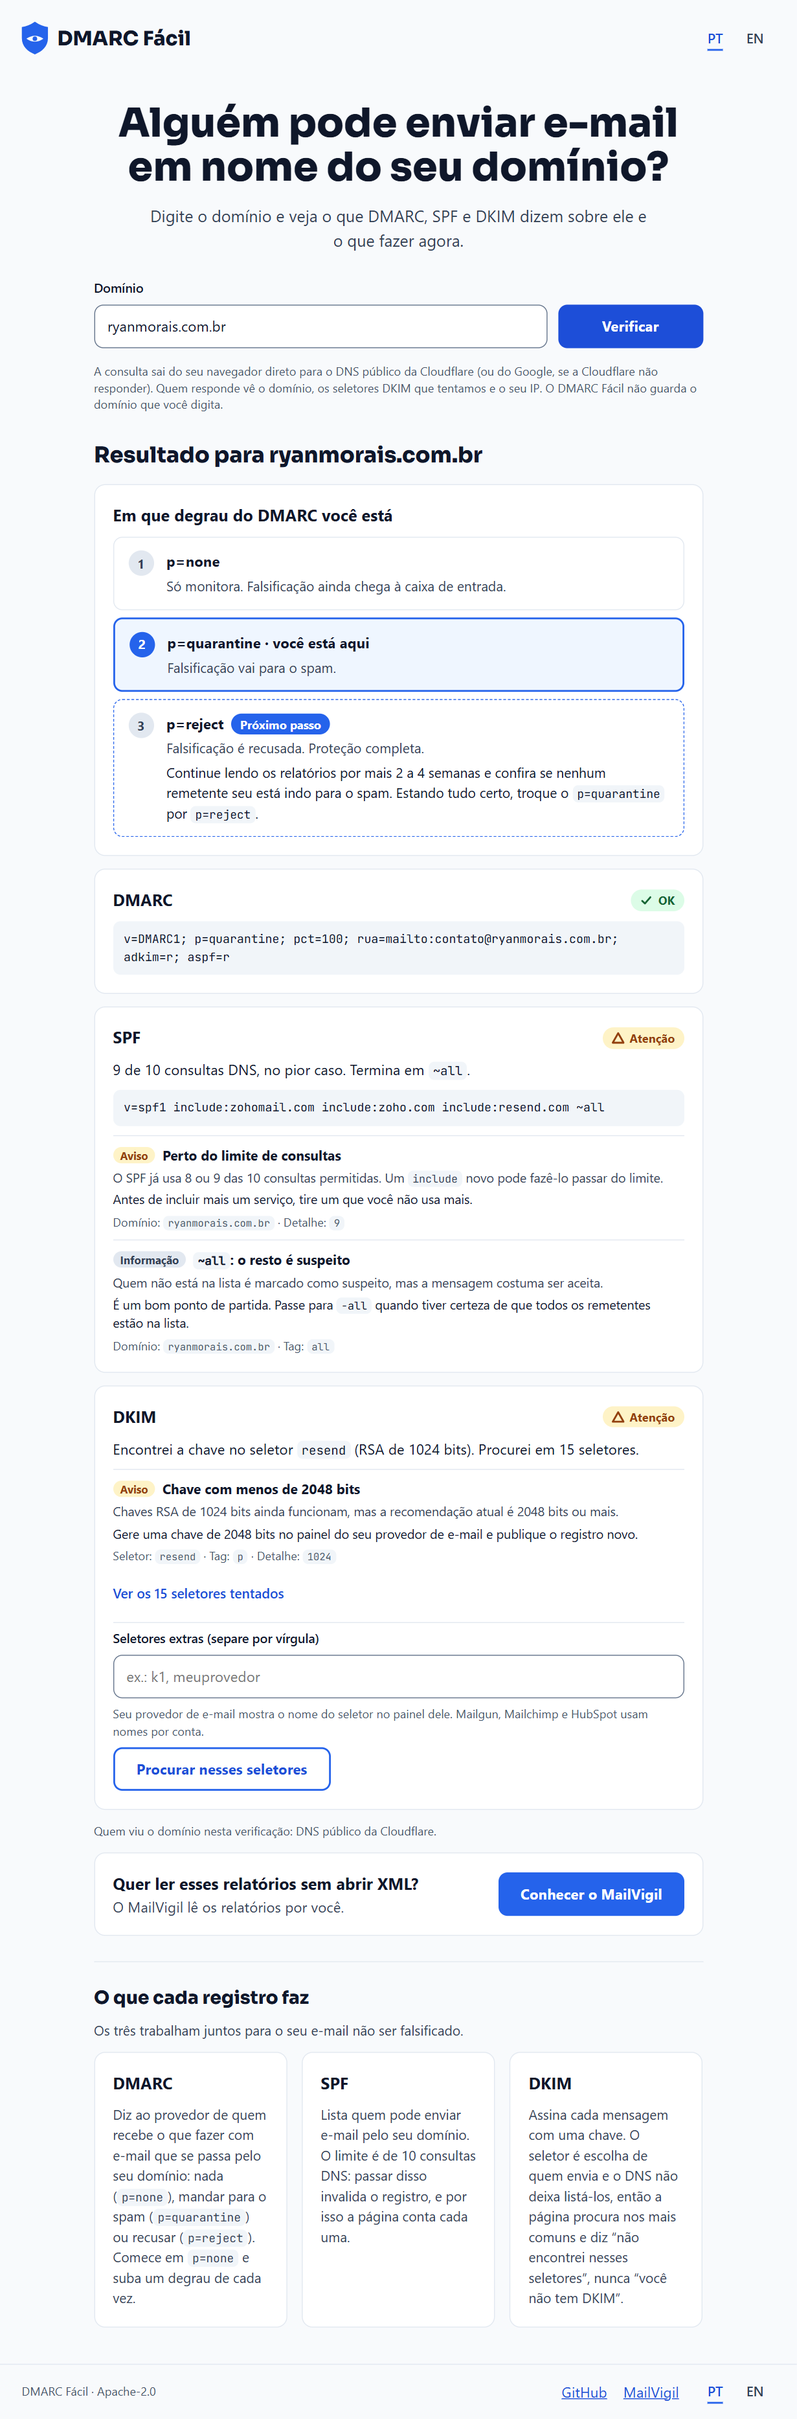
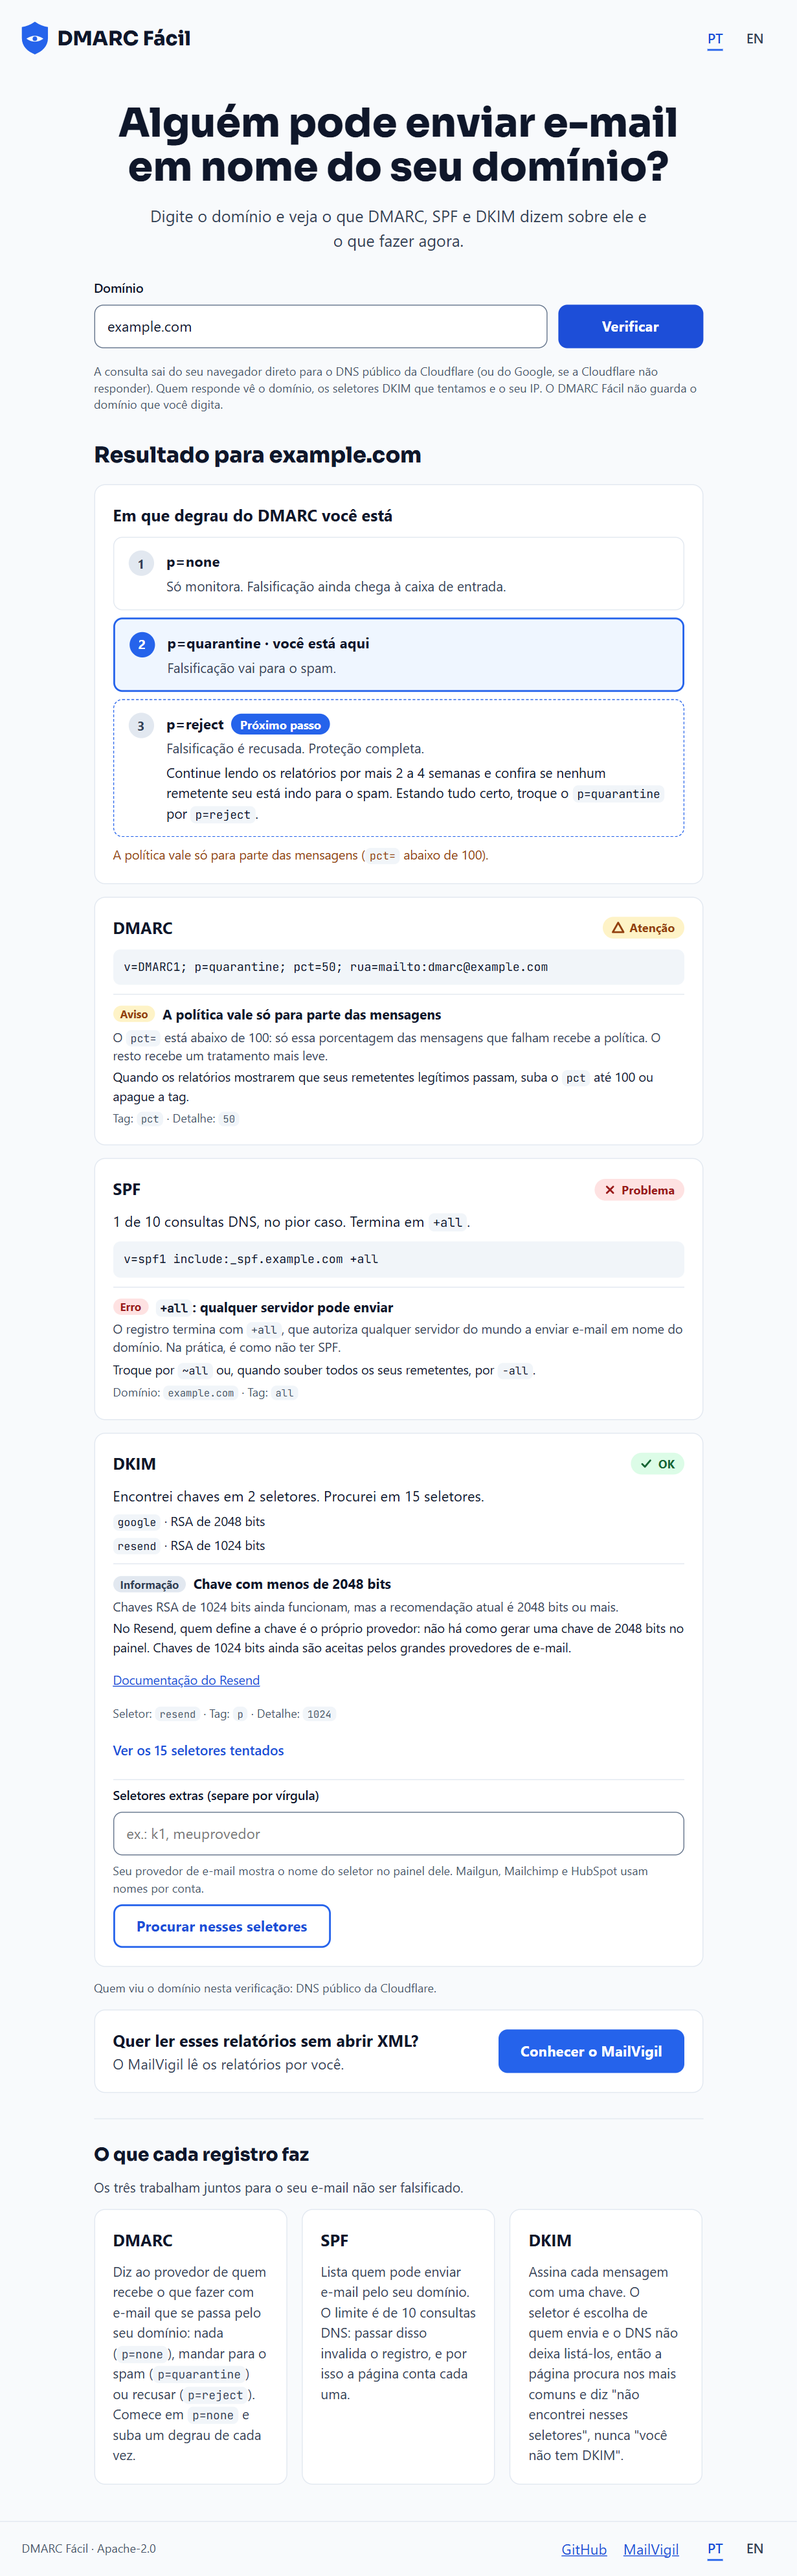
docs: troca a captura do README por um exemplo com cada tipo de alerta (#51)
A captura anterior era de um domínio real e tinha ficado desatualizada.
A nova é da página inteira com `example.com` (reservado para
documentação) e registros montados para mostrar a escada com o próximo
passo e a ressalva, os selos OK, Atenção e Problema e as gravidades
Erro, Aviso e Informação. O README em inglês ganha a sua própria
captura, da página em inglês, e as duas línguas explicam as três
gravidades de achado.

diff --git a/README.en.md b/README.en.md
@@ -21,9 +21,9 @@ It is built for site owners, developers and small agencies who work in Portugues
 
 **Use it now:** [dmarc-facil.ryanmorais.com.br](https://dmarc-facil.ryanmorais.com.br). No install and no account needed.
 
-![DMARC, SPF and DKIM checker: DMARC Fácil result for ryanmorais.com.br, with the DMARC ladder (domain at p=quarantine, next step at p=reject) and the DMARC (OK), SPF (Atenção) and DKIM (Atenção) cards](docs/images/dmarc-facil-dmarc-spf-dkim-checker-result.png)
+![DMARC, SPF and DKIM checker: DMARC Fácil result for example.com, with the DMARC ladder (domain at p=quarantine, next step at p=reject, pct=50 caveat) and the DMARC (Attention, with a warning), SPF (Problem, with an error) and DKIM (OK, with an information note and the keys of two selectors) cards](docs/images/dmarc-facil-dmarc-spf-dkim-checker-result-en.png)
 
-_The whole page on a real check of `ryanmorais.com.br`, the maintainer's domain: DMARC is at `p=quarantine` and the next step is `p=reject`; SPF and DKIM have one warning each. The screenshot is of the Portuguese page._
+_The whole page with an example domain (`example.com`, with records set up to show each kind of alert): DMARC is at `p=quarantine` with `pct=50` (warning), SPF ends in `+all` (error) and DKIM has a 1024-bit key from Resend, which the provider does not let you change (information)._
 
 ## What it checks
 
@@ -45,7 +45,11 @@ The page shows three cards, one for each record (DMARC, SPF and DKIM), and the D
 - **Problema** (problem): the record has an error that stops the protection from working, or does not exist.
 - **Não verificado** (not checked): the query did not finish or the resolver did not answer.
 
-The **ladder** shows which step your DMARC is on (`p=none`, `p=quarantine` or `p=reject`) and marks the next one with the "Próximo passo" (in English, "Next step") label. Each finding comes with a sentence, in the language of the page, saying what it means and what to do.
+The **ladder** shows which step your DMARC is on (`p=none`, `p=quarantine` or `p=reject`) and marks the next one with the "Próximo passo" (in English, "Next step") label. Each finding comes with a sentence, in the language of the page, saying what it means and what to do, and with a severity label:
+
+- **Error:** stops the protection from working and puts the card at "Problem".
+- **Warning:** the record works, but there is a next step to make it safer; puts the card at "Attention".
+- **Information:** context, with nothing to do; does not change the badge.
 
 ## Privacy and use
 

diff --git a/README.md b/README.md
@@ -21,9 +21,9 @@ Ele é feito para donos de site, desenvolvedores e agências pequenas, no Brasil
 
 **Use agora:** [dmarc-facil.ryanmorais.com.br](https://dmarc-facil.ryanmorais.com.br). Não precisa instalar nada nem criar conta.
 
-![Verificador de DMARC, SPF e DKIM: resultado do DMARC Fácil para ryanmorais.com.br, com a escada do DMARC (domínio em p=quarantine, próximo passo em p=reject) e os cartões de DMARC (OK), SPF (Atenção) e DKIM (Atenção)](docs/images/dmarc-facil-dmarc-spf-dkim-checker-result.png)
+![Verificador de DMARC, SPF e DKIM: resultado do DMARC Fácil para example.com, com a escada do DMARC (domínio em p=quarantine, próximo passo em p=reject, ressalva de pct=50) e os cartões de DMARC (Atenção, com um aviso), SPF (Problema, com um erro) e DKIM (OK, com uma informação e as chaves de dois seletores)](docs/images/dmarc-facil-dmarc-spf-dkim-checker-result.png)
 
-_A página inteira numa verificação real de `ryanmorais.com.br`, o domínio do mantenedor: o DMARC está em `p=quarantine` e o próximo passo é `p=reject`; o SPF e o DKIM têm um aviso cada._
+_A página inteira com um domínio de exemplo (`example.com`, com registros montados para mostrar cada tipo de alerta): o DMARC está em `p=quarantine` com `pct=50` (aviso), o SPF termina em `+all` (erro) e o DKIM tem uma chave de 1024 bits do Resend, que o provedor não deixa trocar (informação)._
 
 ## O que ele verifica
 
@@ -45,7 +45,11 @@ A página mostra três cartões, um para cada registro (DMARC, SPF e DKIM), e a 
 - **Problema:** o registro tem um erro que impede a proteção de funcionar, ou não existe.
 - **Não verificado:** a consulta não terminou ou o resolvedor não respondeu.
 
-A **escada** mostra em que degrau o seu DMARC está (`p=none`, `p=quarantine` ou `p=reject`) e marca o seguinte com a etiqueta "Próximo passo". Cada achado vem com uma frase dizendo o que significa e o que fazer.
+A **escada** mostra em que degrau o seu DMARC está (`p=none`, `p=quarantine` ou `p=reject`) e marca o seguinte com a etiqueta "Próximo passo". Cada achado vem com uma frase dizendo o que significa e o que fazer, e com uma etiqueta de gravidade:
+
+- **Erro:** impede a proteção de funcionar e deixa o cartão em "Problema".
+- **Aviso:** o registro funciona, mas há um próximo passo para deixá-lo mais seguro; deixa o cartão em "Atenção".
+- **Informação:** contexto, sem nada a fazer; não muda o selo.
 
 ## Privacidade e uso
 
